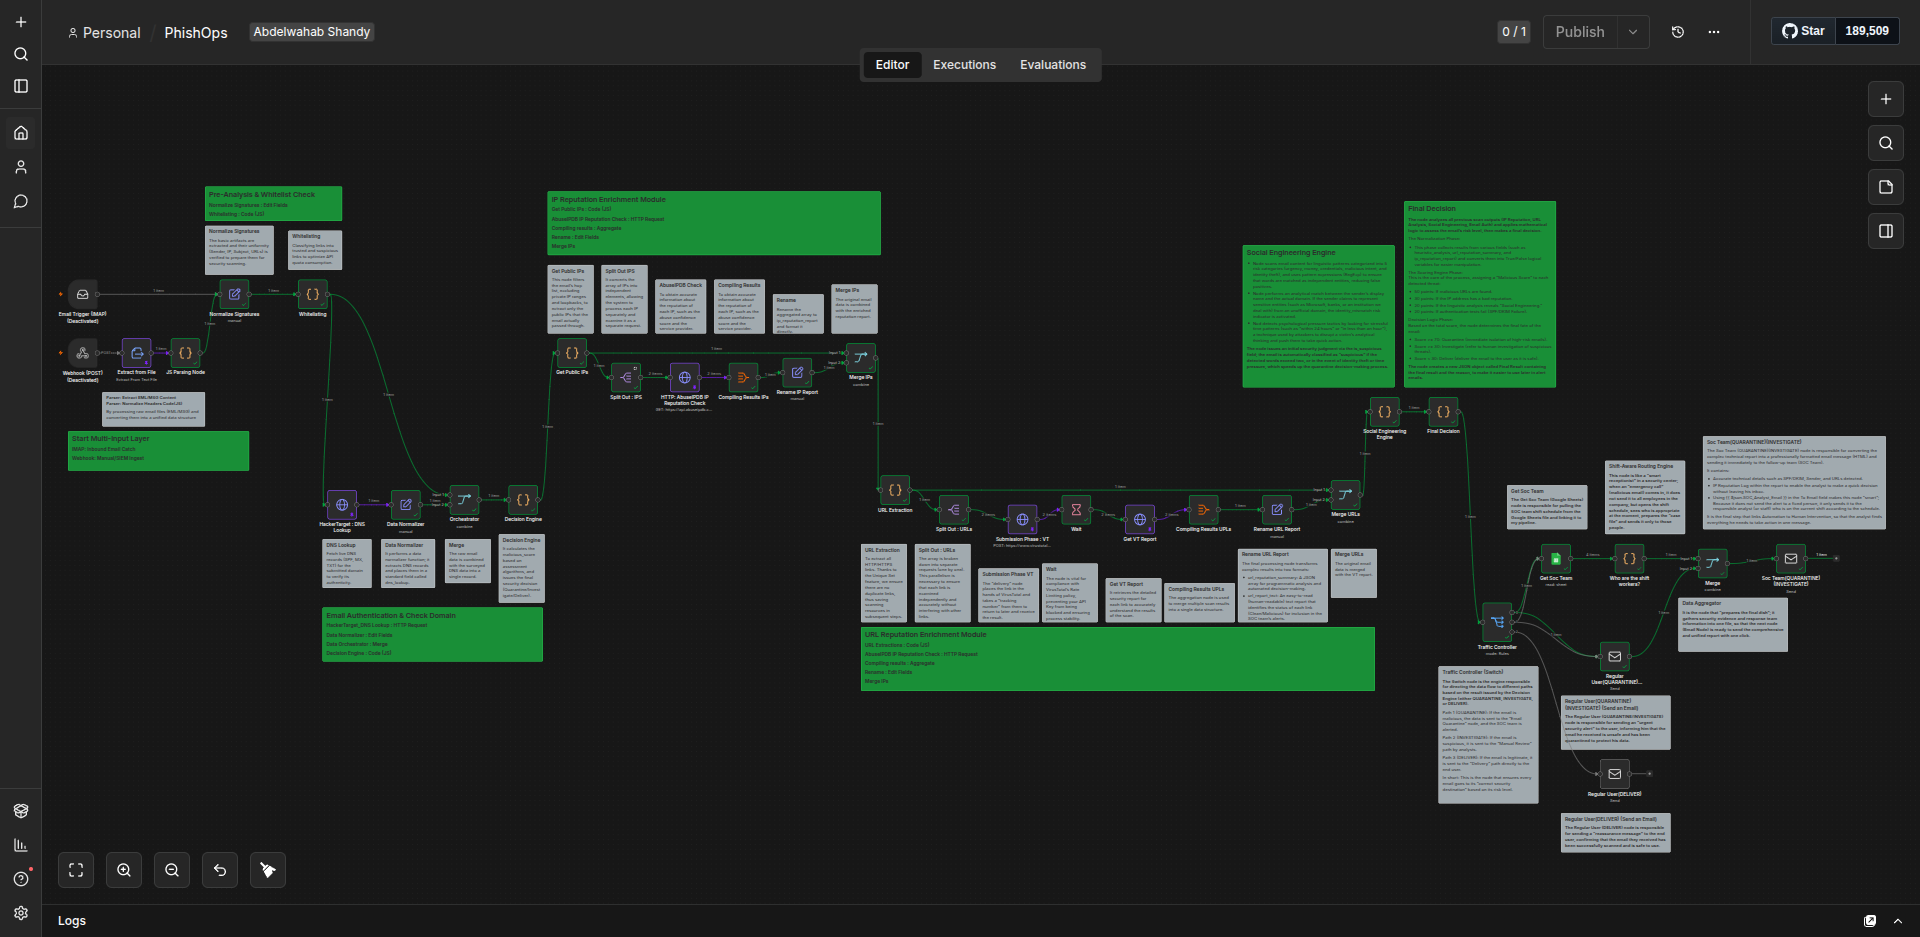
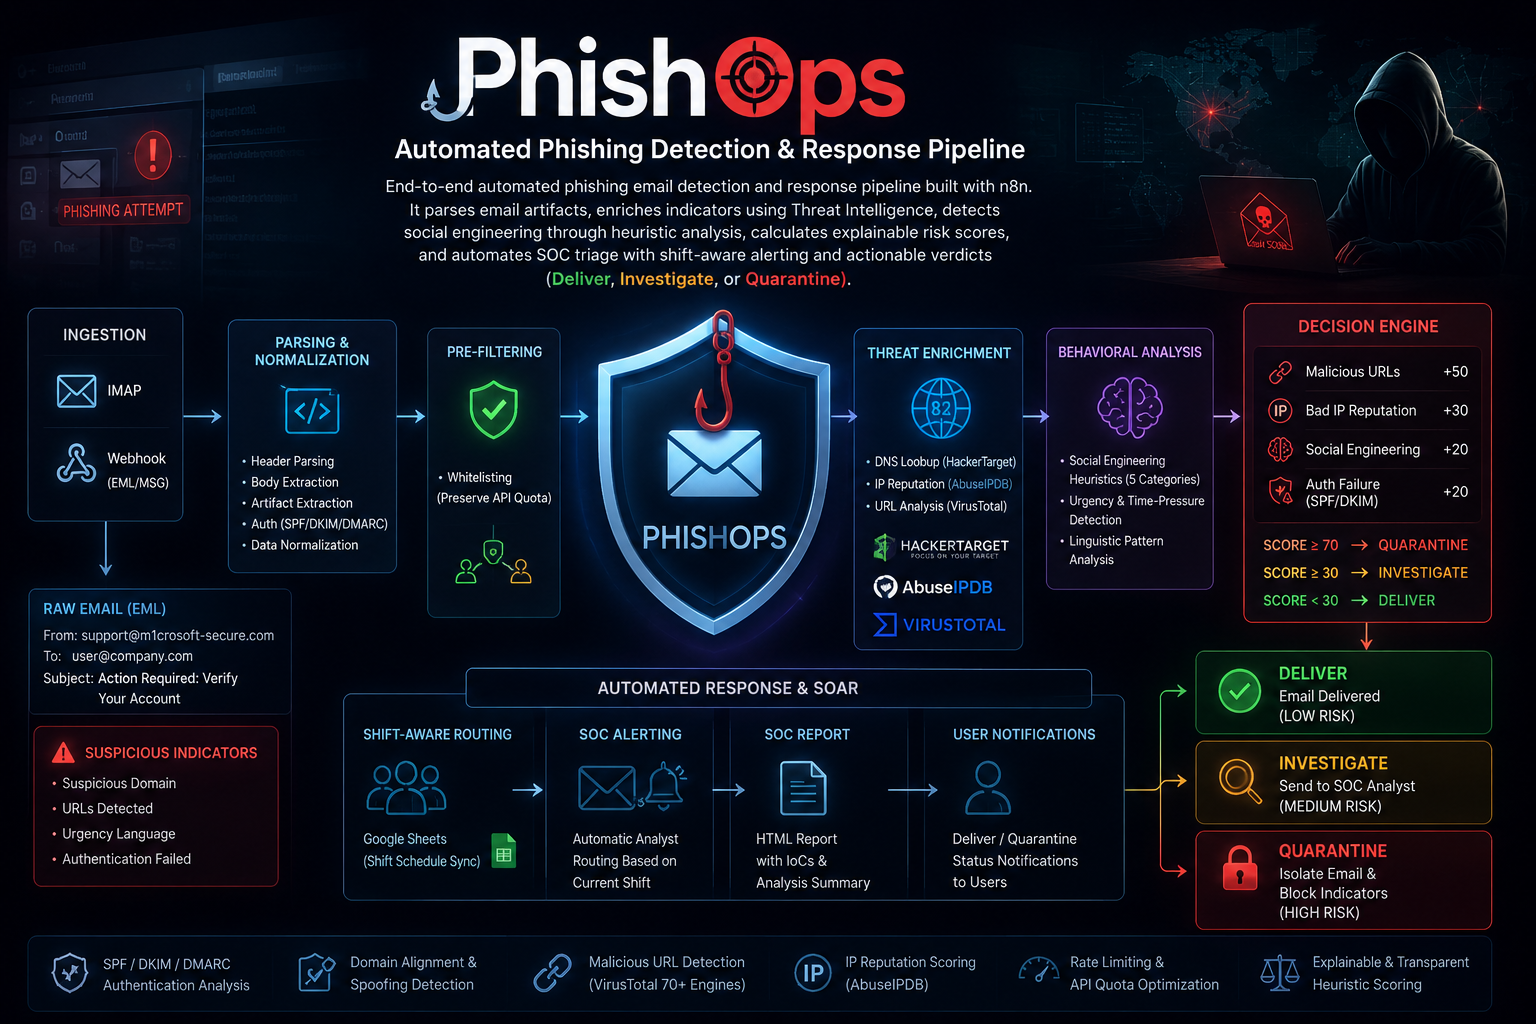
UPDATE

diff --git a/index.html b/index.html
@@ -204,8 +204,8 @@
                                 <span class="tag tag-security">Threat Intelligence</span>
                                 <span class="tag tag-security">Automation</span>
                             </div>
-                            <h3 class="project-card__title">PhishOps: Automated Phishing Incident Response Pipeline</h3>
-                            <p class="project-card__desc">End-to-end automated email threat analysis system on n8n. Extracts email artifacts, enriches IPs (AbuseIPDB) & URLs (VirusTotal), detects social engineering via heuristics, and delivers verdicts (Deliver/Investigate/Quarantine) with shift-aware SOC alerting integrated with Google Sheets.</p>
+                            <h3 class="project-card__title">PhishOps: Automated Phishing Detection & Response Pipeline</h3>
+                            <p class="project-card__desc">End-to-end automated phishing email detection and response pipeline built with n8n. It parses email artifacts, enriches indicators using Threat Intelligence, detects social engineering through heuristic analysis, calculates explainable risk scores, and automates SOC triage with shift-aware alerting and actionable verdicts (Deliver, Investigate, or Quarantine).</p>
                             <div class="project-card__meta">
                                 <span class="pill"><i class="fas fa-robot"></i> n8n SOAR</span>
                                 <span class="pill"><i class="fas fa-shield-virus"></i> VirusTotal API</span>
@@ -445,7 +445,7 @@
                                 <span class="tag tag-security">Automation</span>
                             </div>
                             <h3 class="project-card__title">SOC Home Lab</h3>
-                            <p class="project-card__desc">Complete SOC environment with ELK Stack SIEM, Fluent Bit and Winlogbeat for log collection, plus n8n SOAR automation for automated incident response.</p>
+                            <p class="project-card__desc">Built a complete SOC Home Lab featuring ELK Stack SIEM, Fluent Bit, Winlogbeat, and n8n SOAR. Implemented log collection, detection engineering use cases, Windows event monitoring, alert generation, and automated incident response workflows to simulate a real-world Security Operations Center.</p>
                             <div class="project-card__meta">
                                 <span class="pill"><i class="fas fa-database"></i> Elasticsearch</span>
                                 <span class="pill"><i class="fas fa-chart-bar"></i> Kibana</span>
@@ -485,7 +485,7 @@
                                 <span class="tag tag-infra">Windows Server</span>
                                 <span class="tag tag-infra">Networking</span>
                             </div>
-                            <h3 class="project-card__title">Enterprise Infrastructure Simulation Labs</h3>
+                            <h3 class="project-card__title">Windows Server Labs</h3>
                             <p class="project-card__desc">A structured collection of hands-on labs covering Windows Server administration, Active Directory deployment, networking (Cisco), and security hardening in enterprise environments.</p>
                             <div class="project-card__meta">
                                 <span class="pill"><i class="fab fa-windows"></i> Windows Server 2019/2022</span>
@@ -493,8 +493,8 @@
                                 <span class="pill"><i class="fas fa-network-wired"></i> Cisco Packet Tracer</span>
                             </div>
                             <div class="project-card__actions">
-                                <a href="https://github.com/abdelwahab-a-shendy/Enterprise-Infrastructure-Simulation" target="_blank" rel="noopener noreferrer" class="btn btn--sm btn--primary"><i class="fab fa-github"></i> Repository</a>
-                                <button class="btn btn--sm btn--ghost more-details-btn" data-project="infra-lab"><i class="fas fa-ellipsis-h"></i> More Details</button>
+                                <a href="https://github.com/abdelwahab-a-shendy/Windows-Server-Labs" target="_blank" rel="noopener noreferrer" class="btn btn--sm btn--primary"><i class="fab fa-github"></i> Repository</a>
+                                <!-- <button class="btn btn--sm btn--ghost more-details-btn" data-project="infra-lab"><i class="fas fa-ellipsis-h"></i> More Details</button> -->
                             </div>
                             <div class="project-details-dropdown" id="infra-lab-details" style="display: none;">
                                 <div class="dropdown-content">
@@ -528,7 +528,7 @@
                             </div>
                             <div class="project-card__actions">
                                 <a href="https://github.com/abdelwahab-a-shendy/Movie-Market" target="_blank" class="btn btn--sm btn--primary"><i class="fab fa-github"></i> Source Code</a>
-                                <a href="https://www.linkedin.com/posts/abdelwahab-a-shendy_aspnetcore-entityframework-webdevelopment-activity-7347088295245312001-cwM5" target="_blank" class="btn btn--sm btn--ghost"><i class="fas fa-external-link-alt"></i> Live Demo</a>
+                                <a href="https://www.linkedin.com/posts/abdelwahab-a-shendy_aspnetcore-entityframework-webdevelopment-ugcPost-7347084260282937344-TJyR/?utm_source=share&utm_medium=member_desktop&rcm=ACoAAD9GDgYBA065TqN0qcT1JFeSRWxxbogH5ZE" target="_blank" class="btn btn--sm btn--ghost"><i class="fas fa-external-link-alt"></i> Live Demo</a>
                             </div>
                         </div>
                     </article>
@@ -1388,7 +1388,7 @@
     </main>
 
     <footer class="footer">
-        <p>© 2026 Abdelwahab Ahmed Shandy.</p>
+        <p>© 2026 Abdelwahab Ahmed Shendy.</p>
     </footer>
     
     <script src="assets/js/terminal.js"></script>